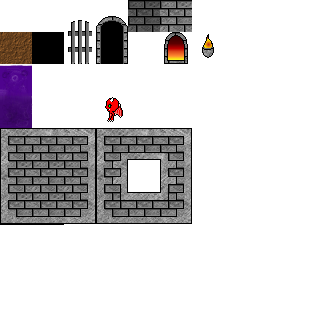
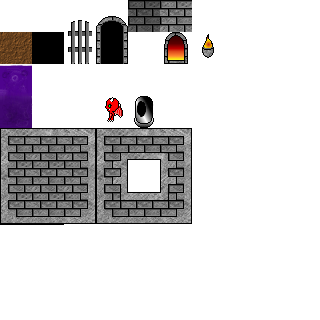
Turret

Changed region(s): [[0.4062, 0.2812, 0.5, 0.4062]]

diff --git a/KaiJaScroller/Classes/Components/Behavior/Projectiles/SimpleSword.cs b/KaiJaScroller/Classes/Components/Behavior/Projectiles/SimpleSword.cs
@@ -12,20 +12,24 @@ public class SimpleSword : ABehavior
     public double lifeTime = 0.5;
     public float count = 0.5f;
     public float reach = 12;
+
+    public Entity e;
     
     
 
-    EDirection direction;
+  //  EDirection direction;
 
     public SimpleSword(EDirection direction)
     {
-        this.direction = direction;
+    //    this.direction = direction;
     }
 
     public override void init()
     {
-        if (this.entity.direction == EDirection.Left)
-            this.entity.gfxComp.mirror();
+      //  if (this.entity.direction == EDirection.Left)
+     //       this.entity.gfxComp.mirror();
+
+        //this.entity.direction = EDirection.Right;
     }
 
     public override void update(GameTime gameTime)
@@ -37,11 +41,18 @@ public class SimpleSword : ABehavior
             count += 2f;
         }
 
-        if (direction == EDirection.Left)
-                 this.entity.setPosition(this.entity.ingame.player.boundingBox.CenterX - 20 - count, this.entity.ingame.player.boundingBox.CenterY - 13);
+        if (e.direction != this.entity.direction)
+        {
+            //this.entity.direction = e.direction;
+            this.entity.direction = e.direction;
+            this.entity.gfxComp.mirror();
+        }
 
-        else if (direction == EDirection.Right)
-                this.entity.setPosition(this.entity.ingame.player.boundingBox.CenterX - 12 + count, this.entity.ingame.player.boundingBox.CenterY - 13);
+        if (this.entity.direction == EDirection.Left)
+                 this.entity.setPosition(e.boundingBox.CenterX - 20 - count, e.boundingBox.CenterY - 13);
+
+        else if (this.entity.direction == EDirection.Right)
+                this.entity.setPosition(e.boundingBox.CenterX - 12 + count, e.boundingBox.CenterY - 13);
         
         if (lifeTime <= 0)
             this.entity.exists = false;

diff --git a/KaiJaScroller/Classes/Components/Behavior/Entities/TurretBrain.cs b/KaiJaScroller/Classes/Components/Behavior/Entities/TurretBrain.cs
@@ -1,0 +1,88 @@
+using System;
+using System.Collections.Generic;
+using System.Linq;
+using System.Text;
+using System.Threading.Tasks;
+
+
+public class TurretBrain : ABehavior, IActionListener
+{
+    float pX;
+    float pY;
+    float eX;
+    float eY;
+    bool canLeft;
+    bool canRight;
+    Fireball fireball;
+    Bomb bomb;
+    int count;
+
+    public TurretBrain()
+    {
+
+
+    }
+
+    public override void init()
+    {
+        fireball = new Fireball();
+        fireball.setAction(this);
+        fireball.setEntity(this.entity);
+        //ASkill skill1 = new Fireball();
+        //skill1.setAction(new RandomAction(0.5));
+        //skill1.setEntity(this.entity);
+
+        //skills.Add(skill1);
+        canLeft = false;
+        canRight = false;
+        count = 0;
+
+        bomb = new Bomb();
+        bomb.setAction(this);
+        bomb.setEntity(this.entity);
+    }
+
+    public override void update(GameTime gameTime)
+    {
+        pX = this.entity.ingame.player.boundingBox.CenterX;
+        pY = this.entity.ingame.player.boundingBox.CenterY;
+        eX = this.entity.boundingBox.CenterX;
+        eY = this.entity.boundingBox.CenterY;
+        count++;
+
+        fireball.update(gameTime);
+
+
+
+    }
+
+    public override void onKill()
+    {
+
+    }
+
+    public bool performed(GameTime gameTime, Entity source, String name)
+    {
+        if (name == fireball.name)
+        {
+            if (count > 100)
+            {
+                return true;
+            }
+            else
+            {
+                count = 0;
+            }
+        }
+
+        else if (name == bomb.name)
+        {
+            //bomb.xSpeed = (float)Help.random.NextDouble() * 10.0f;
+
+
+            return false;
+        }
+
+        return false;
+    }
+}

diff --git a/KaiJaScroller/Classes/Statics/EntityLibrary.cs b/KaiJaScroller/Classes/Statics/EntityLibrary.cs
@@ -44,6 +44,8 @@ public static class EntityLibrary
                 bb = new BoundingBox(0, 0, 16, 32);
                 bb.offsetX = 8;
 
+
+
                 e.damage = 0;
 
                 sprite = new Sprite(Assets.impTexture);
@@ -51,8 +53,27 @@ public static class EntityLibrary
 
                 gfxComp = new EntityGfx();
 
-                behavior = new ChaseBombBrain();
+                behavior =new ChaseBombBrain();
                 physics = new SimplePhysic();
+                break;
+
+            case EEntityType.Turret:
+
+                bb = new BoundingBox(0, 0, 32, 32);
+                bb.offsetX = 8;
+
+
+
+                e.damage = 0;
+                e.hitpoints[0] = Int16.MaxValue;
+
+                sprite = new Sprite(Assets.turretTexture);
+                sprite.TextureRect = new IntRect(0, 0, 32, 32);
+
+                gfxComp = new EntityGfx();
+
+                behavior = new TurretBrain();
+                physics = new NoPhysics();
                 break;
 
         }

diff --git a/KaiJaScroller/Classes/Components/Skills/SmallSword.cs b/KaiJaScroller/Classes/Components/Skills/SmallSword.cs
@@ -19,6 +19,7 @@ public class SmallSword : ASkill
 
         this.maxCooldown = 0.5;
         this.curCooldown = 0.5;
+        
     }
 
     public override void onUse(GameTime gameTime)
@@ -45,6 +46,7 @@ public class SmallSword : ASkill
         bull.boundingBox = new BoundingBox(startPos.X, startPos.Y, 16, 6);
         bull.boundingBox.offsetX = 7;
         bull.boundingBox.offsetY = 13;
+        s.e = this.entity;
 
         if (this.entity.direction == EDirection.Left)
         {

diff --git a/KaiJaScroller/Classes/Statics/Assets.cs b/KaiJaScroller/Classes/Statics/Assets.cs
@@ -18,6 +18,7 @@ public static class Assets
     public static Texture bomb              = new Texture("Content/Gfx/bomb.png");
     public static Texture bloodParticle     = new Texture("Content/Gfx/bloodParticle.png");
     public static Texture smallSwordTexture = new Texture("Content/Gfx/smallSword.png");
+    public static Texture turretTexture     = new Texture("Content/Gfx/turret.png");
 
     public static Font font1 = new Font("Content/Other/Gargoyles.ttf");
 

diff --git a/KaiJaScroller/Classes/Components/Skills/Fireball.cs b/KaiJaScroller/Classes/Components/Skills/Fireball.cs
@@ -32,7 +32,7 @@ public class Fireball : ASkill
         bull.setPhysics(new NoPhysics());
 
 
-        Vector2f startPos = this.entity.boundingBox.Center - new Vector2f(16,16);
+        Vector2f startPos = this.entity.boundingBox.Center - new Vector2f(32,16);
 
         bull.damage = 99;
         bull.boundingBox = new BoundingBox(startPos.X, startPos.Y, 16, 16);

diff --git a/KaiJaScroller/Classes/Statics/Enums.cs b/KaiJaScroller/Classes/Statics/Enums.cs
@@ -7,7 +7,7 @@ public enum EOverlayState {None, Pause, GameOver, Restart, MainMenu, OverlayStat
 
 public enum EDirection { Left, Right, DirectionCount }
 
-public enum EEntityType {None, Player, Imp = 34 };
+public enum EEntityType {None, Player, Imp = 34, Turret = 35 };
 
 public enum EParticleType {Smoke, Blood, ParticleCount };
 
